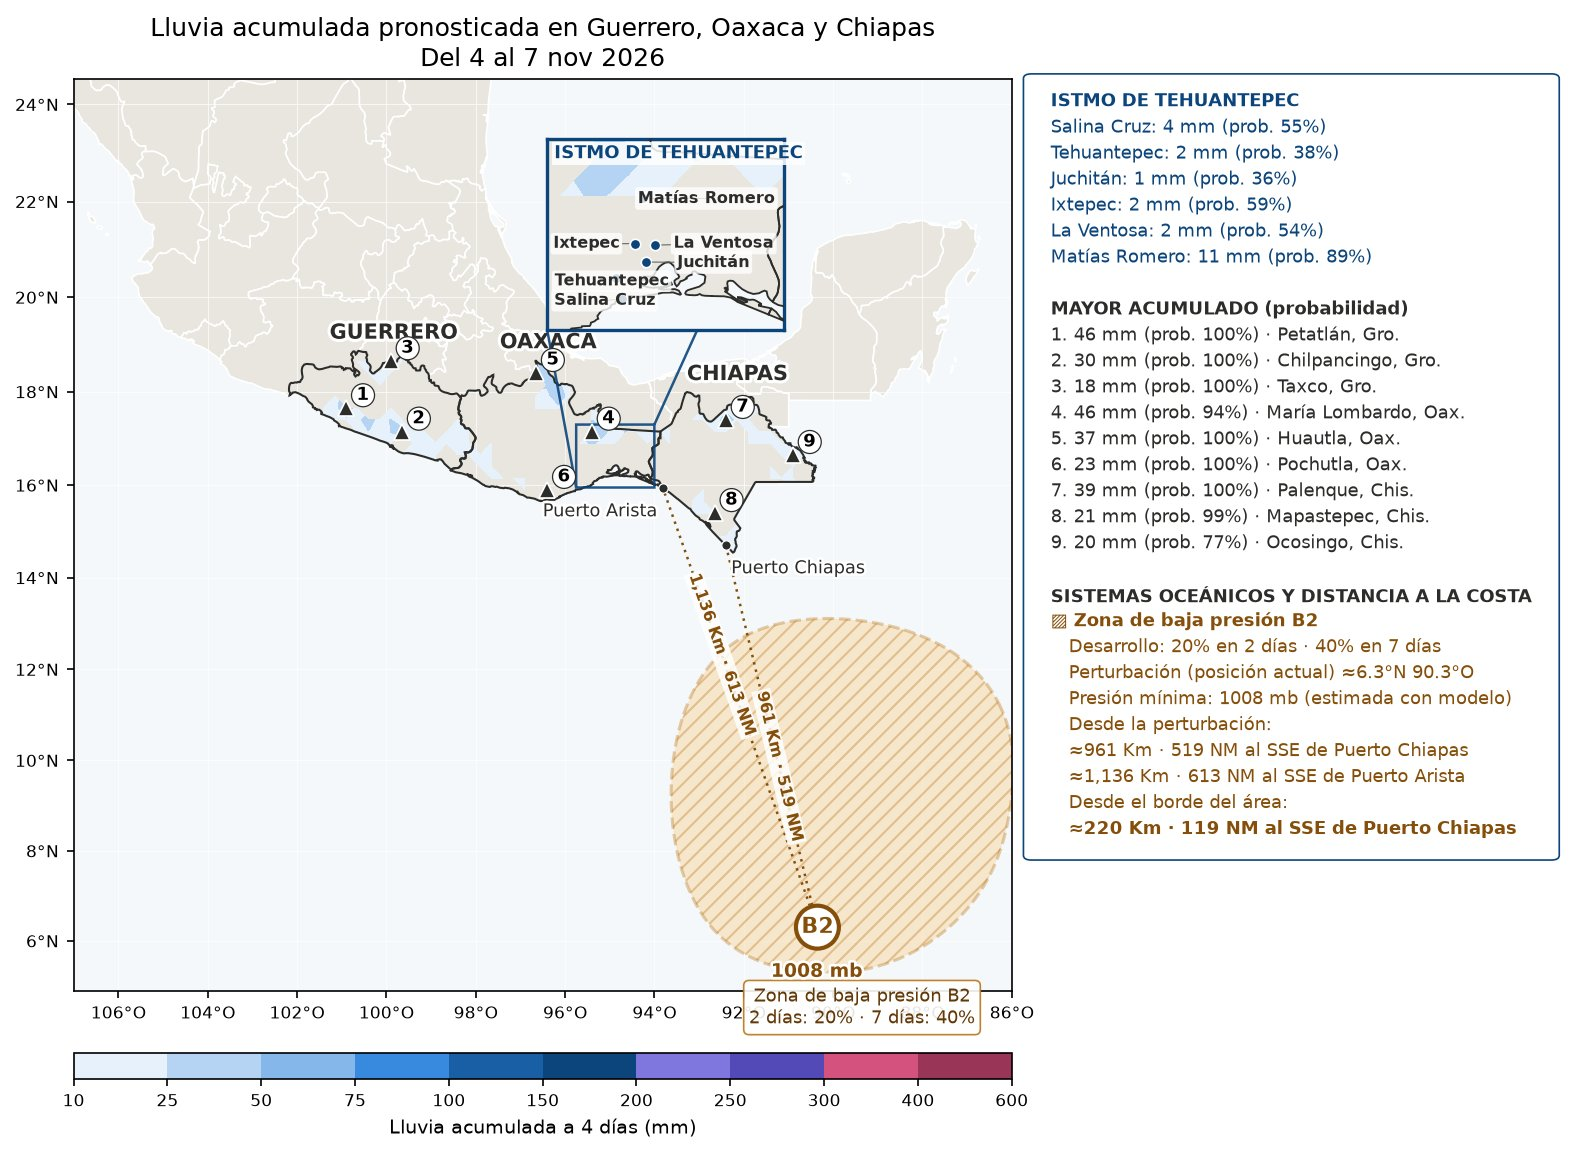
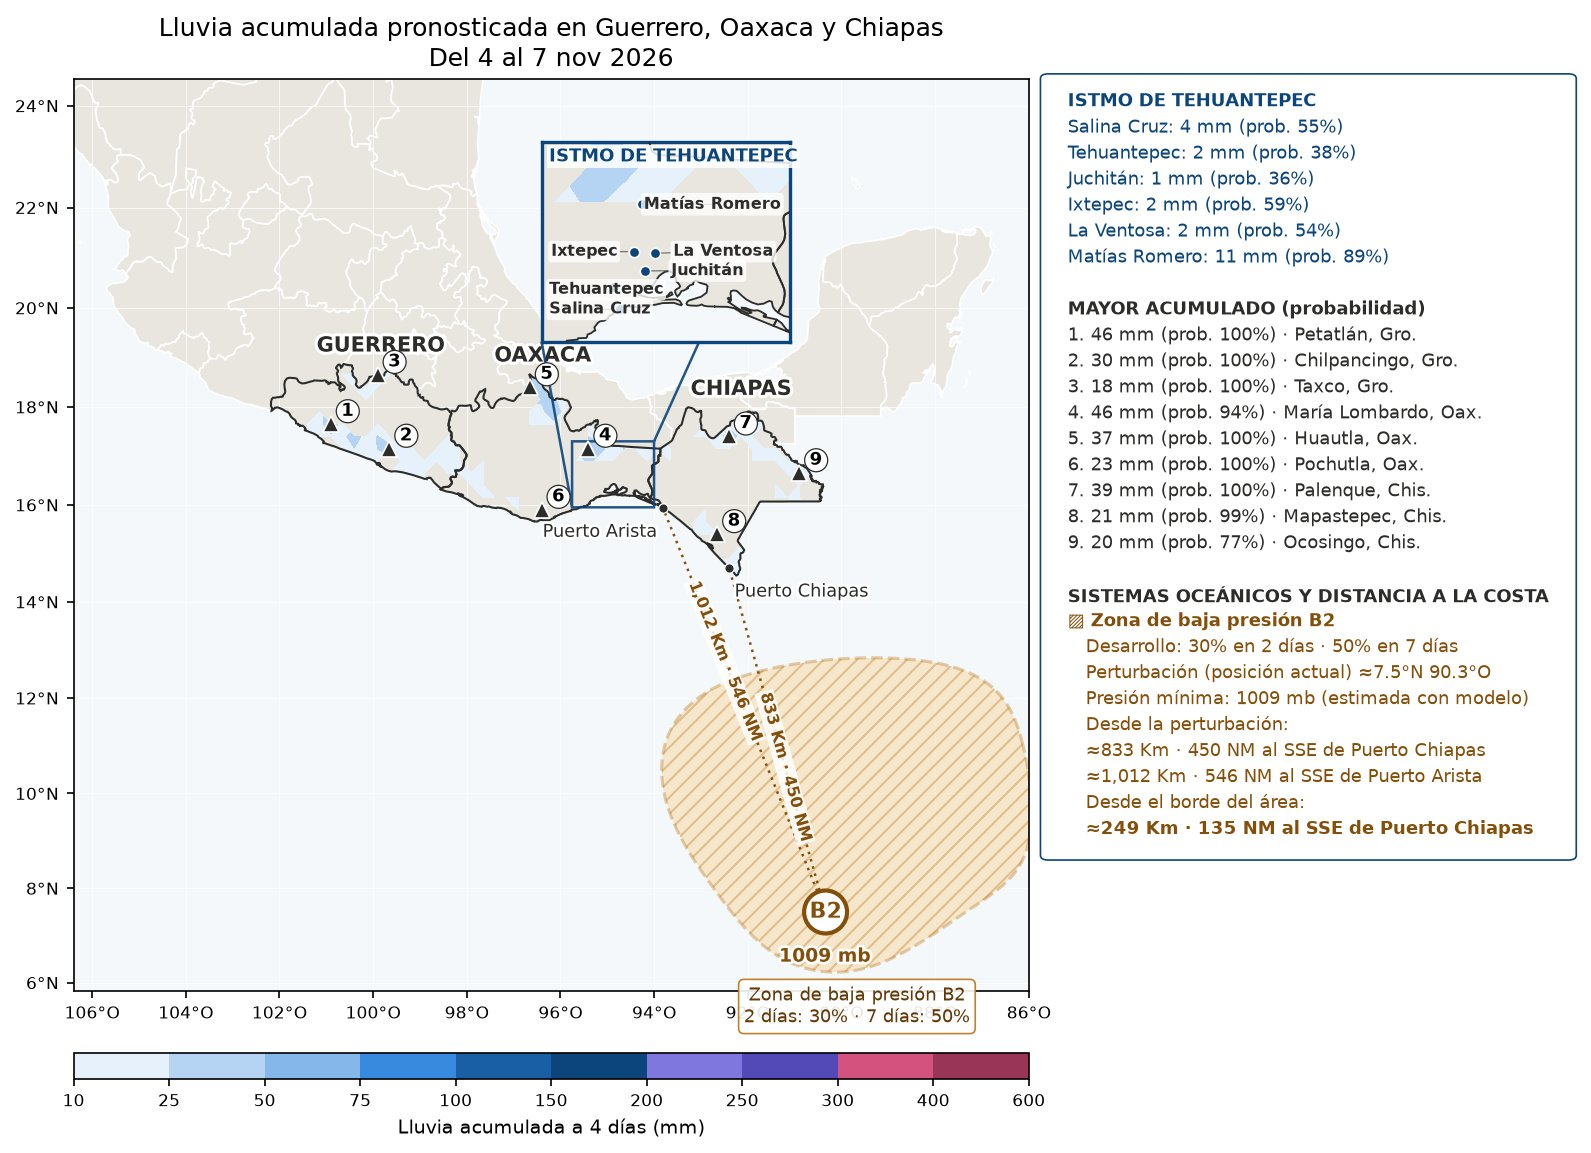
Monitor 04/11 06:07 (mapas nuevos)

diff --git a/index.html b/index.html
@@ -62,7 +62,7 @@ pre{overflow-x:auto;font-size:.75rem;background:var(--bg);padding:10px;border-ra
 <section class="t" id="sec_log"><details><summary>Registro (últimas líneas)</summary><pre id="log"></pre></details></section>
 </main>
 <div id="zoom"><img alt=""></div>
-<script id="datos" type="application/json">{"generado": "2026-11-04T05:47:03.993237", "ultima_revision": "2026-11-04T05:47:03.937977", "decision": "sin cambios", "ultima_imagen": "2026-11-04T02:30:17.814496", "motivo_imagen": "cambios acumulados en 3 h: modelo", "pendientes": [], "intervalo_h": 3, "resumen": {"ciclones": {}, "zonas": [{"lat": 6.3, "lon": -90.3, "n": "2", "p2": 20, "p7": 40}]}, "historial": [{"fecha": "2026-11-01T07:30:06.802744", "motivo": "cambios acumulados en 3 h: modelo"}, {"fecha": "2026-11-01T14:00:05.731393", "motivo": "cambios acumulados en 3 h: modelo"}, {"fecha": "2026-11-01T19:20:09.893329", "motivo": "cambios acumulados en 3 h: modelo"}, {"fecha": "2026-11-02T02:20:09.994969", "motivo": "cambios acumulados en 3 h: modelo"}, {"fecha": "2026-11-02T07:20:07.648113", "motivo": "cambios acumulados en 3 h: modelo"}, {"fecha": "2026-11-02T14:20:09.645554", "motivo": "cambios acumulados en 3 h: modelo"}, {"fecha": "2026-11-02T19:30:16.069134", "motivo": "cambios acumulados en 3 h: modelo"}, {"fecha": "2026-11-03T02:10:14.639375", "motivo": "cambios acumulados en 3 h: modelo"}, {"fecha": "2026-11-03T07:20:16.761479", "motivo": "cambios acumulados en 3 h: modelo"}, {"fecha": "2026-11-03T11:17:20.000309", "motivo": "CAMBIO SIGNIFICATIVO: nueva zona de baja presión (20% en 7 días)"}, {"fecha": "2026-11-03T14:30:37.479249", "motivo": "cambios acumulados en 3 h: modelo"}, {"fecha": "2026-11-03T17:37:19.483672", "motivo": "cambios acumulados en 3 h: zonas"}, {"fecha": "2026-11-03T20:50:07.581951", "motivo": "cambios acumulados en 3 h: modelo"}, {"fecha": "2026-11-03T23:17:16.041431", "motivo": "CAMBIO SIGNIFICATIVO: zona de baja presión: 10/30% → 20/40% (2/7 días)"}, {"fecha": "2026-11-04T02:30:17.814496", "motivo": "cambios acumulados en 3 h: modelo"}], "imagenes": {"lluvia": {"src": "lluvia.jpg?v=202611040230", "fecha": "2026-11-04T02:30:10.078114"}, "viento": {"src": "viento.jpg?v=202611040230", "fecha": "2026-11-04T02:30:15.525738"}}, "log": [], "umbral_av": 50, "umbral_mal": 110}</script>
+<script id="datos" type="application/json">{"generado": "2026-11-04T06:07:16.759675", "ultima_revision": "2026-11-04T06:07:16.699309", "decision": "imágenes generadas", "ultima_imagen": "2026-11-04T06:07:16.699309", "motivo_imagen": "cambios acumulados en 3 h: zonas", "pendientes": [], "intervalo_h": 3, "resumen": {"ciclones": {}, "zonas": [{"lat": 7.5, "lon": -90.3, "n": "2", "p2": 30, "p7": 50}]}, "historial": [{"fecha": "2026-11-01T14:00:05.731393", "motivo": "cambios acumulados en 3 h: modelo"}, {"fecha": "2026-11-01T19:20:09.893329", "motivo": "cambios acumulados en 3 h: modelo"}, {"fecha": "2026-11-02T02:20:09.994969", "motivo": "cambios acumulados en 3 h: modelo"}, {"fecha": "2026-11-02T07:20:07.648113", "motivo": "cambios acumulados en 3 h: modelo"}, {"fecha": "2026-11-02T14:20:09.645554", "motivo": "cambios acumulados en 3 h: modelo"}, {"fecha": "2026-11-02T19:30:16.069134", "motivo": "cambios acumulados en 3 h: modelo"}, {"fecha": "2026-11-03T02:10:14.639375", "motivo": "cambios acumulados en 3 h: modelo"}, {"fecha": "2026-11-03T07:20:16.761479", "motivo": "cambios acumulados en 3 h: modelo"}, {"fecha": "2026-11-03T11:17:20.000309", "motivo": "CAMBIO SIGNIFICATIVO: nueva zona de baja presión (20% en 7 días)"}, {"fecha": "2026-11-03T14:30:37.479249", "motivo": "cambios acumulados en 3 h: modelo"}, {"fecha": "2026-11-03T17:37:19.483672", "motivo": "cambios acumulados en 3 h: zonas"}, {"fecha": "2026-11-03T20:50:07.581951", "motivo": "cambios acumulados en 3 h: modelo"}, {"fecha": "2026-11-03T23:17:16.041431", "motivo": "CAMBIO SIGNIFICATIVO: zona de baja presión: 10/30% → 20/40% (2/7 días)"}, {"fecha": "2026-11-04T02:30:17.814496", "motivo": "cambios acumulados en 3 h: modelo"}, {"fecha": "2026-11-04T06:07:16.699309", "motivo": "cambios acumulados en 3 h: zonas"}], "imagenes": {"lluvia": {"src": "lluvia.jpg?v=202611040607", "fecha": "2026-11-04T06:07:10.188042"}, "viento": {"src": "viento.jpg?v=202611040607", "fecha": "2026-11-04T06:07:15.020415"}}, "log": [], "umbral_av": 50, "umbral_mal": 110}</script>
 <script>
 const D = JSON.parse(document.getElementById("datos").textContent);
 const $ = id => document.getElementById(id);
